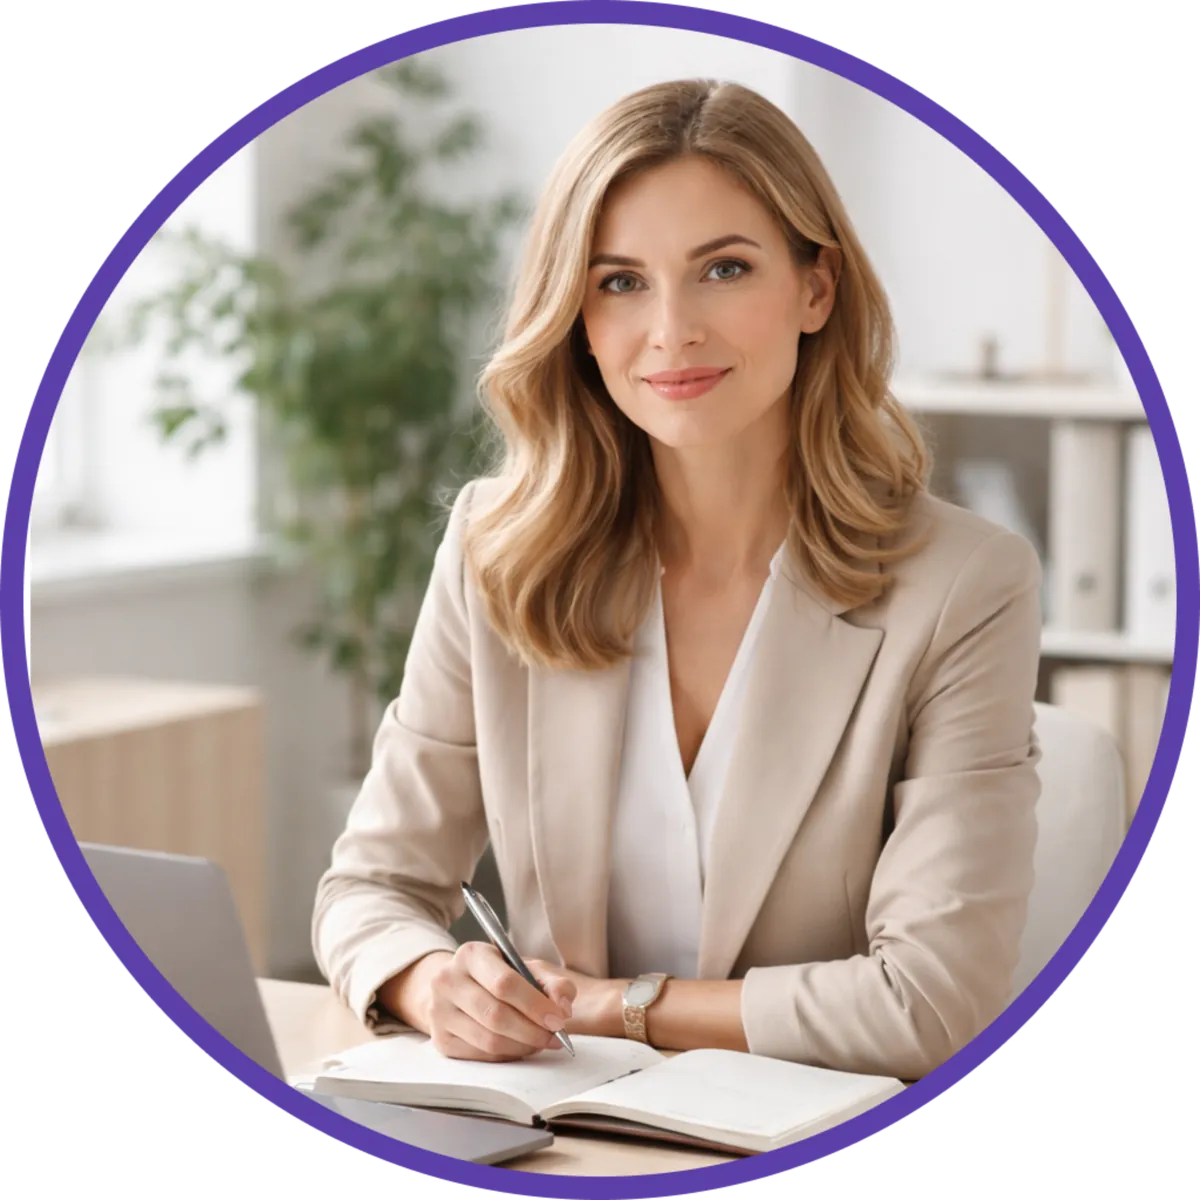
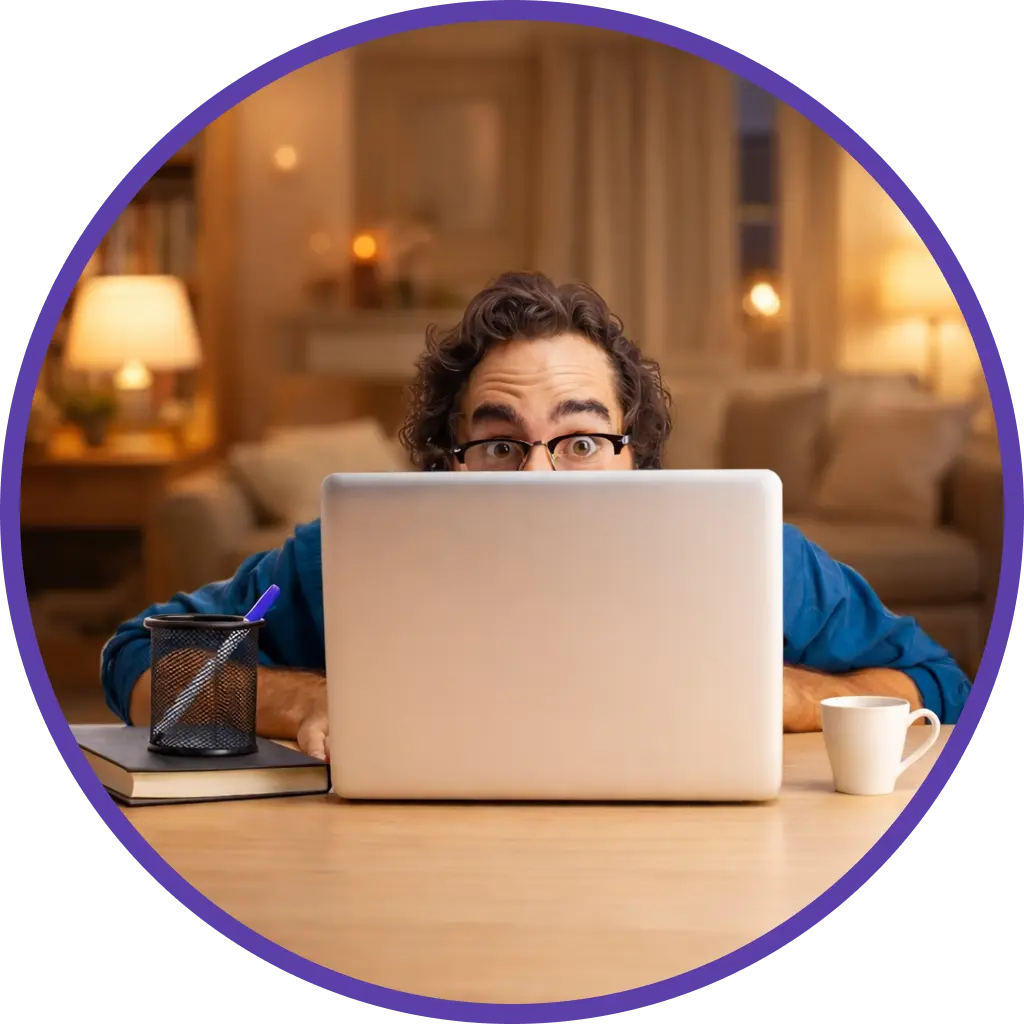
changed

diff --git a/index.html b/index.html
@@ -48,15 +48,15 @@
                         доход и радость.
                         <br>
                         <br>
-                        Онлайн • Индивидуально • 60–90 минут
+                        Онлайн • Индивидуально • 1-4 консультации
                     </p>
-                    <a data-aos-duration="700" data-aos="fade-up" href="#">Записаться на консультацию</a>
+                    <a data-aos-duration="700" data-aos="fade-up" href="#contact">Записаться на консультацию</a>
                 </div>
                 <div data-aos-duration="1500" data-aos="fade-up" class="header__contacts">
                     <span>Вы можете написать мне лично</span>
                     <div class="links">
-                        <a href=""><i class="fa-brands fa-vk"></i></a>
-                        <a href=""><i class="fa-brands fa-telegram"></i></a>
+                        <a href="https://vk.com/club219784118"><i class="fa-brands fa-vk"></i></a>
+                        <a href="@ola170673"><i class="fa-brands fa-telegram"></i></a>
                     </div>
                 </div>
             </div>
@@ -68,15 +68,19 @@
             <div class="work__elements">
                 <div data-aos-duration="700" data-aos="fade-right" class="work__item">
                     <img src="./img/block1.webp" alt="Профориентация для взрослых" loading="lazy" decoding="async">
-                    <p>Помощь в выборе новой профессии и карьерного пути</p>
+                    <p>Профориентация для взрослых</p>
                 </div>
-                <div data-aos-duration="500" data-aos="zoom-in" class="work__item">
-                    <img src="./img/block2.webp" alt="Профориентация для взрослых" loading="lazy" decoding="async">
-                    <p>Определение склонностей и интересов за одну консультацию</p>
+                <div data-aos-duration="500" data-aos="fade-left" class="work__item">
+                    <img src="./img/block2.webp" alt="Профориентация для подростков" loading="lazy" decoding="async">
+                    <p>Профориентация для подростков</p>
+                </div>
+                <div data-aos-duration="700" data-aos="fade-right" class="work__item">
+                    <img src="./img/block3.webp" alt="Выбор профильного обучения" loading="lazy" decoding="async">
+                    <p>Выбор профильного обучения</p>
                 </div>
                 <div data-aos-duration="700" data-aos="fade-left" class="work__item">
-                    <img src="./img/block3.webp" alt="Профориентация для взрослых" loading="lazy" decoding="async">
-                    <p>Помощь в выборе школьного профильного направления</p>
+                    <img src="./img/block4.webp" alt="Профориентационная Т-Игра" loading="lazy" decoding="async">
+                    <p>Профориентационная Т-Игра "Образ дела"</p>
                 </div>
             </div>
         </div>
@@ -206,7 +210,7 @@
                 </div>
 
                 <div class="contact__field">
-                    <input type="text" name="contact" placeholder="Ваши контакты (подпишите контакт!)" required>
+                    <input type="text" name="contact" placeholder="Как с вами связаться?" required>
                 </div>
 
                 <!-- Honeypot (скрытое поле для ботов) -->

diff --git a/css/style.css b/css/style.css
@@ -195,9 +195,10 @@ header {
   }
 
   & .work__elements {
-    display: flex;
-    gap: 40px;
-    justify-content: space-between;
+    display: grid;
+    grid-template-columns: repeat(2, 1fr); /* 2 колонки */
+    gap: 40px; /* расстояние между блоками */
+    justify-items: center; /* центрирование по горизонтали */
 
     & .work__item {
       display: flex;
@@ -608,14 +609,14 @@ footer {
   inset: 0;
   display: none;
   z-index: 9999;
-  transition: 0.4s;           
+  transition: 0.4s;
   padding: 0 8px;
 }
 
 .img-modal.is-open {
   display: flex;
-  justify-content: center;    
-  align-items: center;  
+  justify-content: center;
+  align-items: center;
 }
 
 .img-modal__overlay {
@@ -665,7 +666,6 @@ footer {
   font-weight: 800;
   line-height: 1;
   cursor: pointer;
- 
 }
 
 .img-modal__close:hover {

diff --git a/css/media.css b/css/media.css
@@ -320,6 +320,10 @@
       }
     }
   }
+
+  .work__elements {
+    grid-template-columns: 1fr !important;
+  }
 }
 
 @media (max-width: 600px) {
